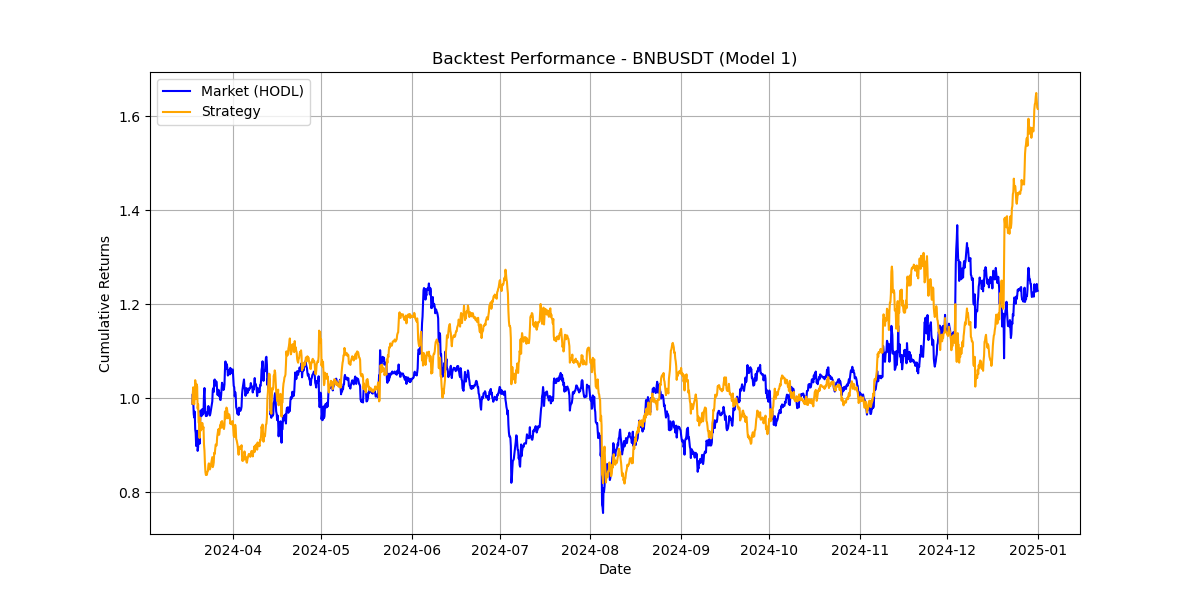
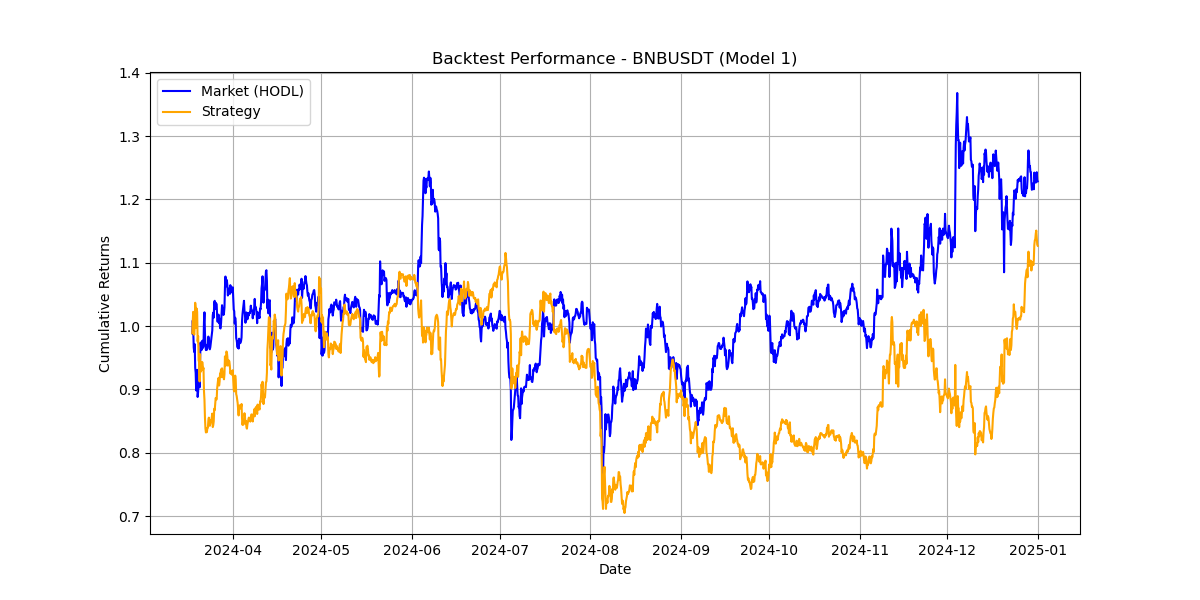
backtest enhanced v2

diff --git a/notebooks/BackTest.py b/notebooks/BackTest.py
@@ -8,7 +8,7 @@ project_root = r"D:\Y3\FYP\Final-Year-Project\Final-Year-Project"
 result_dir = os.path.join(project_root, "results")
 
 # Parameters
-FEE = 0.00  # Transaction fee (0.02%)
+FEE = 0.0002  # Transaction fee (0.02%)
 symbols = ['BTCUSDT', 'ETHUSDT', 'SOLUSDT', 'BNBUSDT', 'XRPUSDT', 'DOGEUSDT', 'ADAUSDT', 'TRXUSDT']
 num_models = 3
 
